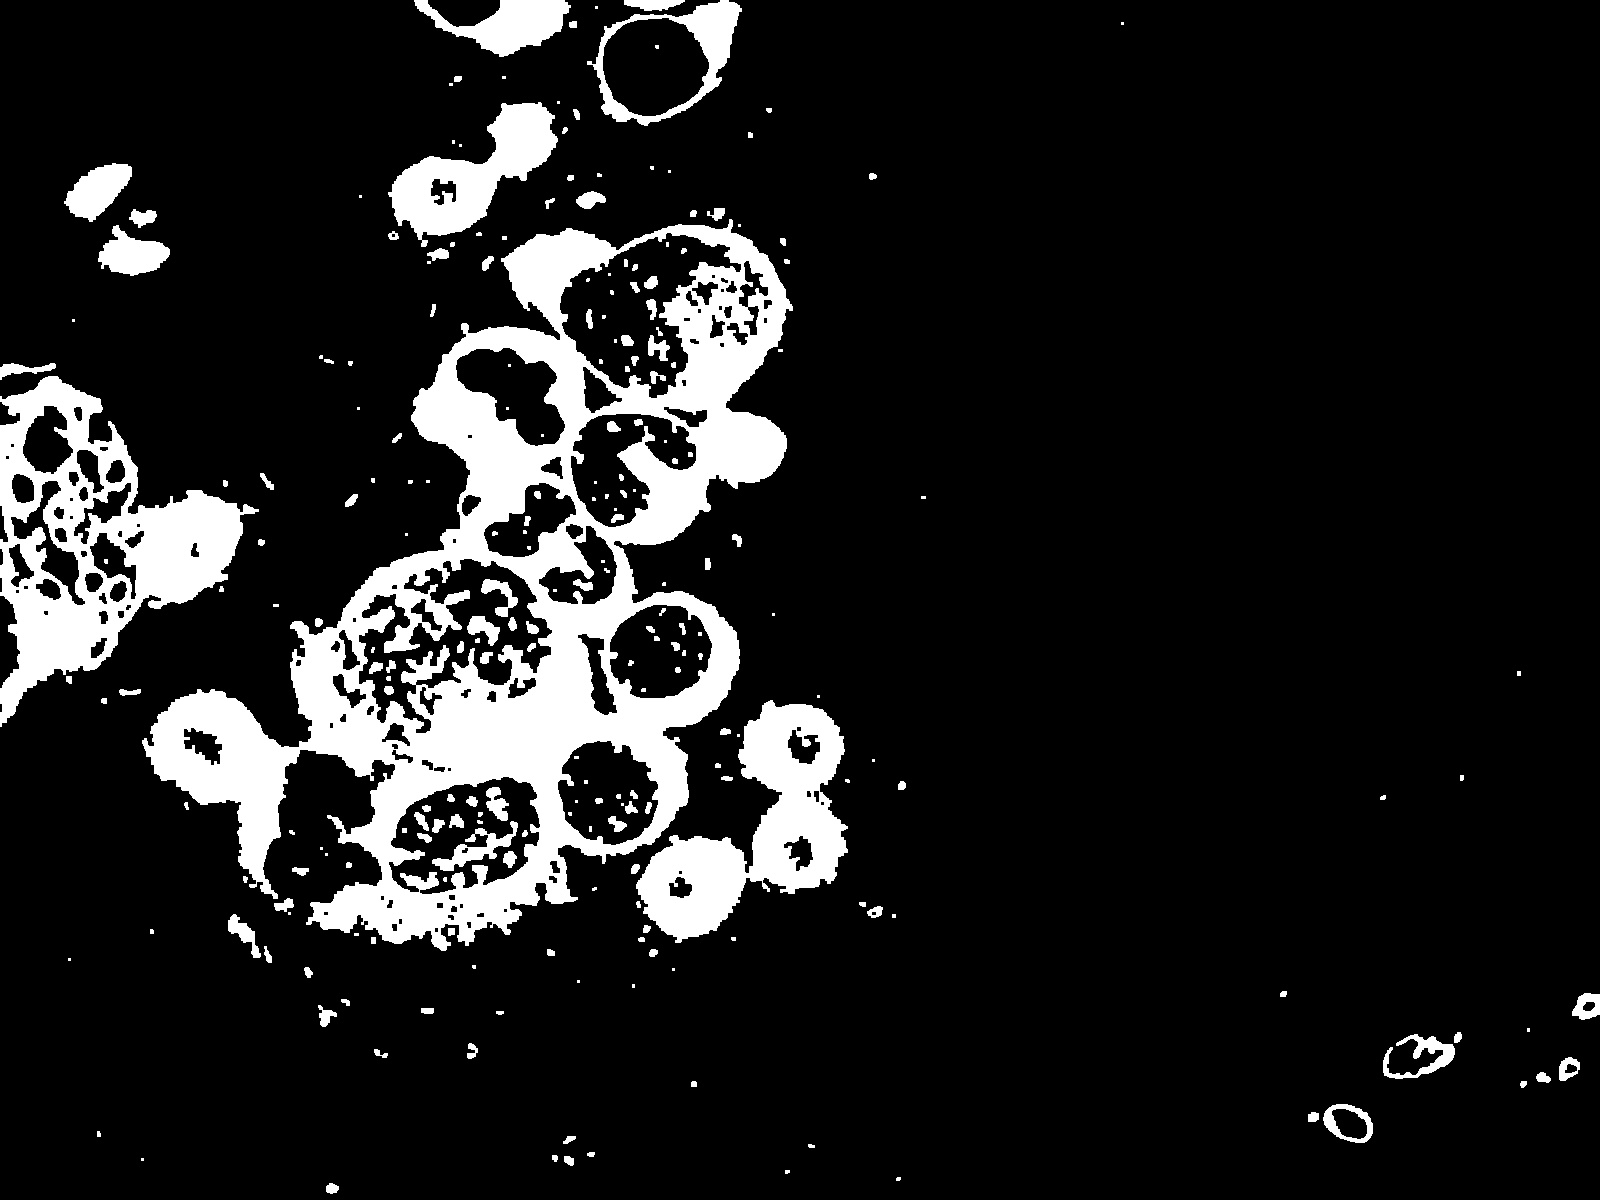
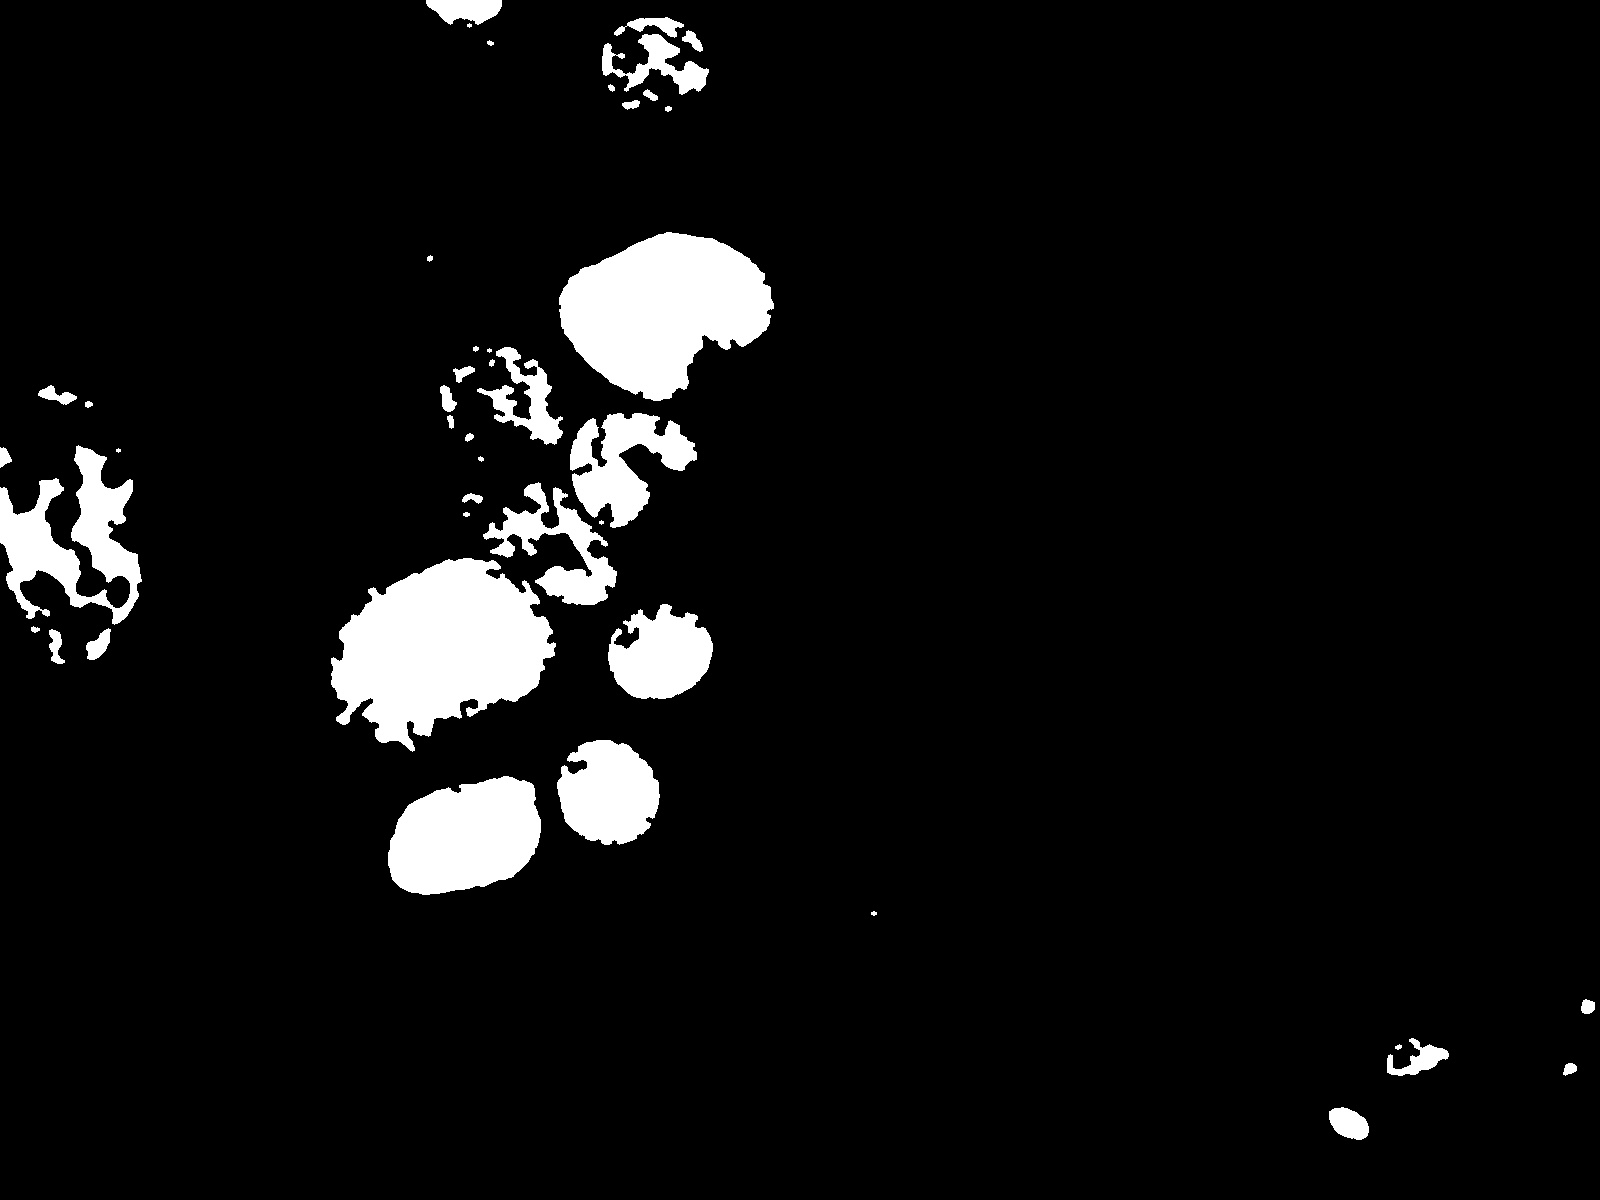
feat: improve segmentation applying morph operations and automatic cluster selection based on gmm

diff --git a/segmentation_ml/main.py b/segmentation_ml/main.py
@@ -6,36 +6,6 @@ from scipy.stats import norm
 
 from plotting import plot_gaussian_models
 
-
-def calcular_histograma(imagen, canal):
-    """
-    Calcula y grafica el histograma del canal especificado en la imagen.
-
-    Parámetros:
-    - imagen: ndarray, imagen cargada con cv2.imread().
-    - canal: str, uno de 'gray', 'b', 'g', 'r'.
-
-    Retorna:
-    - hist: ndarray, histograma del canal seleccionado.
-    """
-    # Diccionario de índices para los canales
-    canales_dict = {'b': 0, 'g': 1, 'r': 2, 'gray': 0}
-
-    # Verificar número de canales en la imagen
-    num_canales = 1 if len(imagen.shape) == 2 else imagen.shape[2]
-
-    # Verificar validez del canal
-    if canal == 'gray' and num_canales > 1:
-        hist = cv2.calcHist([imagen], [0], None, [256], [0, 256])
-    elif canal in ('b', 'g', 'r') and num_canales == 3:
-        idx = canales_dict[canal]
-        hist = cv2.calcHist([imagen], [idx], None, [256], [0, 256])
-    else:
-        raise ValueError("Canal no válido para esta imagen.")
-
-    return hist
-
-
 def gmm_from_histogram(histograma, n_componentes):
     # Asegurarse de que el histograma es un arreglo 1D
     histograma = histograma.flatten()
@@ -105,21 +75,37 @@ def load_image(path):
 
 def preprocess_image(image):
     image_gray = cv2.cvtColor(image, cv2.COLOR_RGB2GRAY)
+    image_blur = image_gray.copy()
     #image_blur = cv2.GaussianBlur(image_gray, (5, 5), 0)
-    return image_gray
+    image_blur = cv2.bilateralFilter(image_gray, 5, 75, 75, borderType= cv2.BORDER_REPLICATE)
+    return image_blur
 
 
-def postprocess_mask(mask):
+
+def fill_holes_contours(mask):
+    contours, _ = cv2.findContours(mask, cv2.RETR_CCOMP, cv2.CHAIN_APPROX_SIMPLE)
+    filled = np.zeros_like(mask)
+    for i, c in enumerate(contours):
+        cv2.drawContours(filled, [c], -1, 255, thickness=cv2.FILLED)
+    return filled
+
+
+def postprocess_mask(mask, kernel_size=5  ):
     # Aplicar operaciones morfológicas para limpiar la máscara
-    kernel = np.ones((3, 3), np.uint8)
+    kernel = np.ones((kernel_size, kernel_size), np.uint8)
+
+    kernel = cv2.getStructuringElement(cv2.MORPH_ELLIPSE, (kernel_size, kernel_size))
     mask_cleaned = cv2.morphologyEx(mask, cv2.MORPH_OPEN, kernel)
     mask_cleaned = cv2.morphologyEx(mask_cleaned, cv2.MORPH_CLOSE, kernel)
 
     return mask_cleaned
 
-def main(image_path, output_path):
+def main(image_dir_path, output_dir_path, file_name):
     # Cargar la imagen
-    image_raw = load_image(image_path)
+    image_path =  f'{image_dir_path}/{file_name}'
+    output_path = f'{output_dir_path}/{file_name}'
+
+    image_raw = load_image(image_path )
 
     # Preprocesar la imagen
     imagen = preprocess_image(image_raw)
@@ -129,22 +115,25 @@ def main(image_path, output_path):
     
     
     #  # Ajustar el GMM al histograma
-    n_componentes = 2  # Número de componentes GMM
+    n_componentes = 3  # Número de componentes GMM
     means, std_devs, weights = gmm_from_histogram(histograma, n_componentes)
    
-    #plot_gaussian_models(means, std_devs, weights)
+    #plot_gaussian_models(means, std_devs, weights, save_path=f'./segmentation_ml/g_models/{file_name}')
     
 
-    cluster_select =1  # Seleccionar el primer cluster (0 o 1)
-    mask = segmentar_gm(imagen, means[cluster_select], std_devs[cluster_select], 1)
+    cluster_select = np.argmin(means)  # Seleccionar el cluster con la media más baja
+
+    mask = segmentar_gm(imagen, means[cluster_select], std_devs[cluster_select], 1.2)
 
     mask = postprocess_mask(mask)
+
+    mask = fill_holes_contours(mask)
 
     # Save the mask
     cv2.imwrite(output_path, mask)
     
 
 
-for i in range(0, 1):
+for i in range(0, 4):
     IMAGE = f'NORMOBLASTOS_0{i}.jpg'
-    main(f'./segmentation_ml/dataset/{IMAGE}', f'./segmentation_ml/masks/{IMAGE}')
+    main('./segmentation_ml/dataset', './segmentation_ml/masks', IMAGE)

diff --git a/segmentation_ml/plotting.py b/segmentation_ml/plotting.py
@@ -2,7 +2,7 @@ import numpy as np
 import matplotlib.pyplot as plt
 from scipy.stats import norm
 
-def plot_gaussian_models(means, std_devs, weights=None, x_range=(0, 255), num_points=1000):
+def plot_gaussian_models(means, std_devs, weights=None, x_range=(0, 255), num_points=1000, save_path=None):
     x = np.linspace(x_range[0], x_range[1], num_points)
     total_pdf = np.zeros_like(x)
 
@@ -23,4 +23,9 @@ def plot_gaussian_models(means, std_devs, weights=None, x_range=(0, 255), num_po
     plt.xlabel('Intensity')
     plt.ylabel('Probability Density')
     plt.title('Gaussian Models')
-    plt.show()
+    if save_path:
+        plt.savefig(save_path)
+    else:
+      plt.show()
+
+    plt.close()
